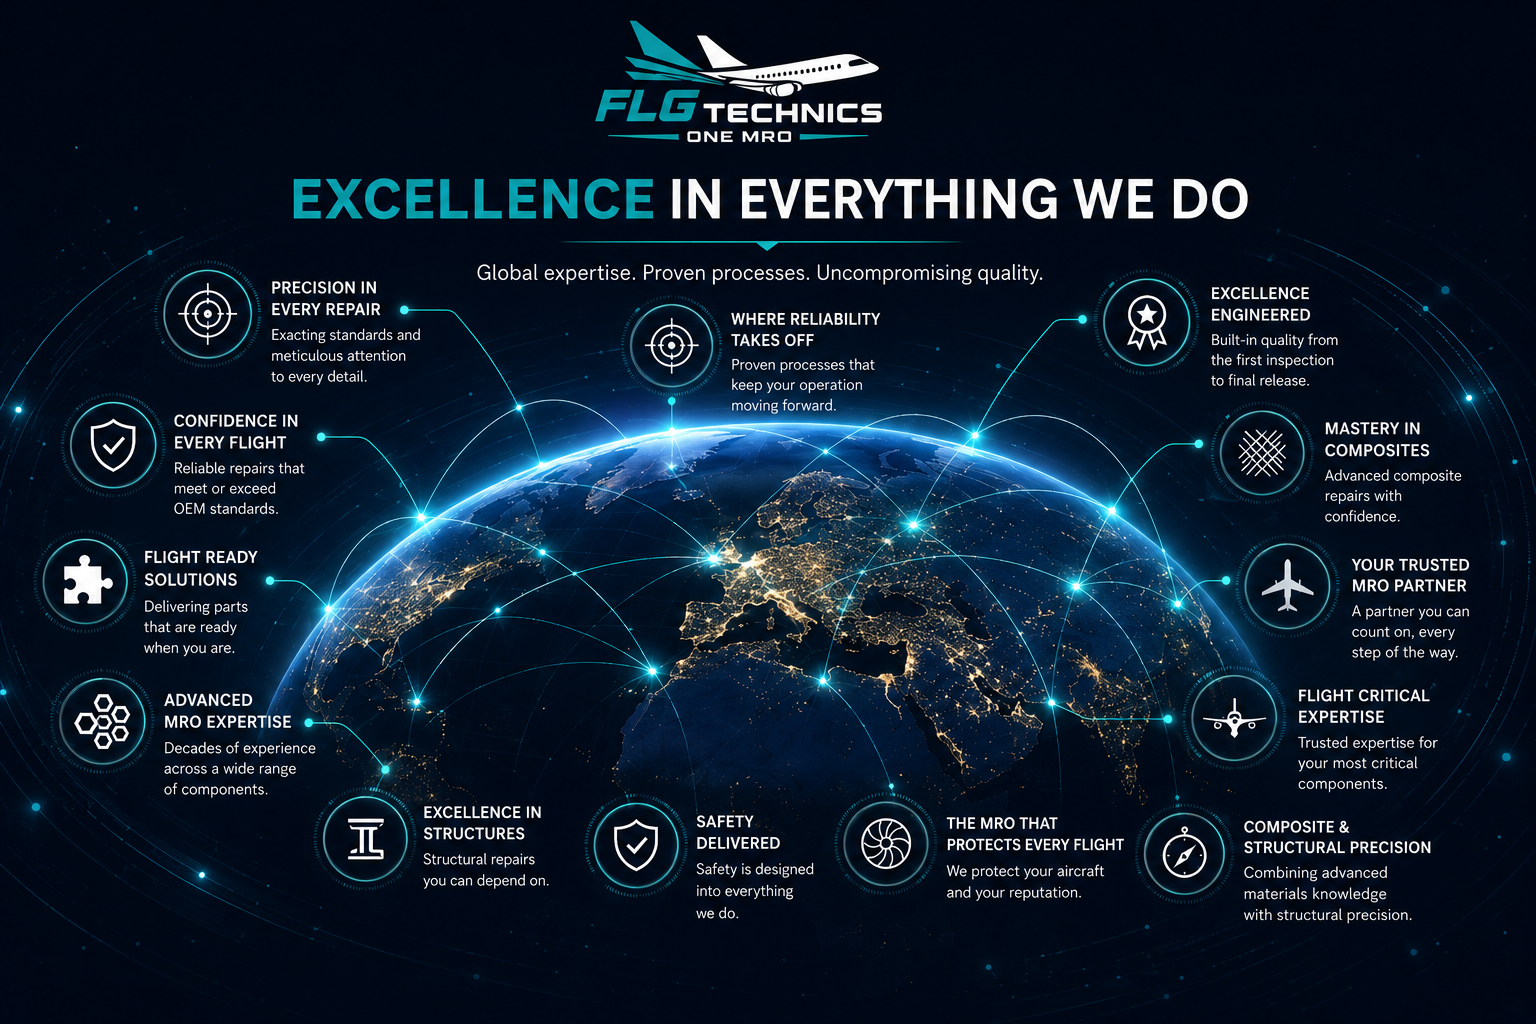
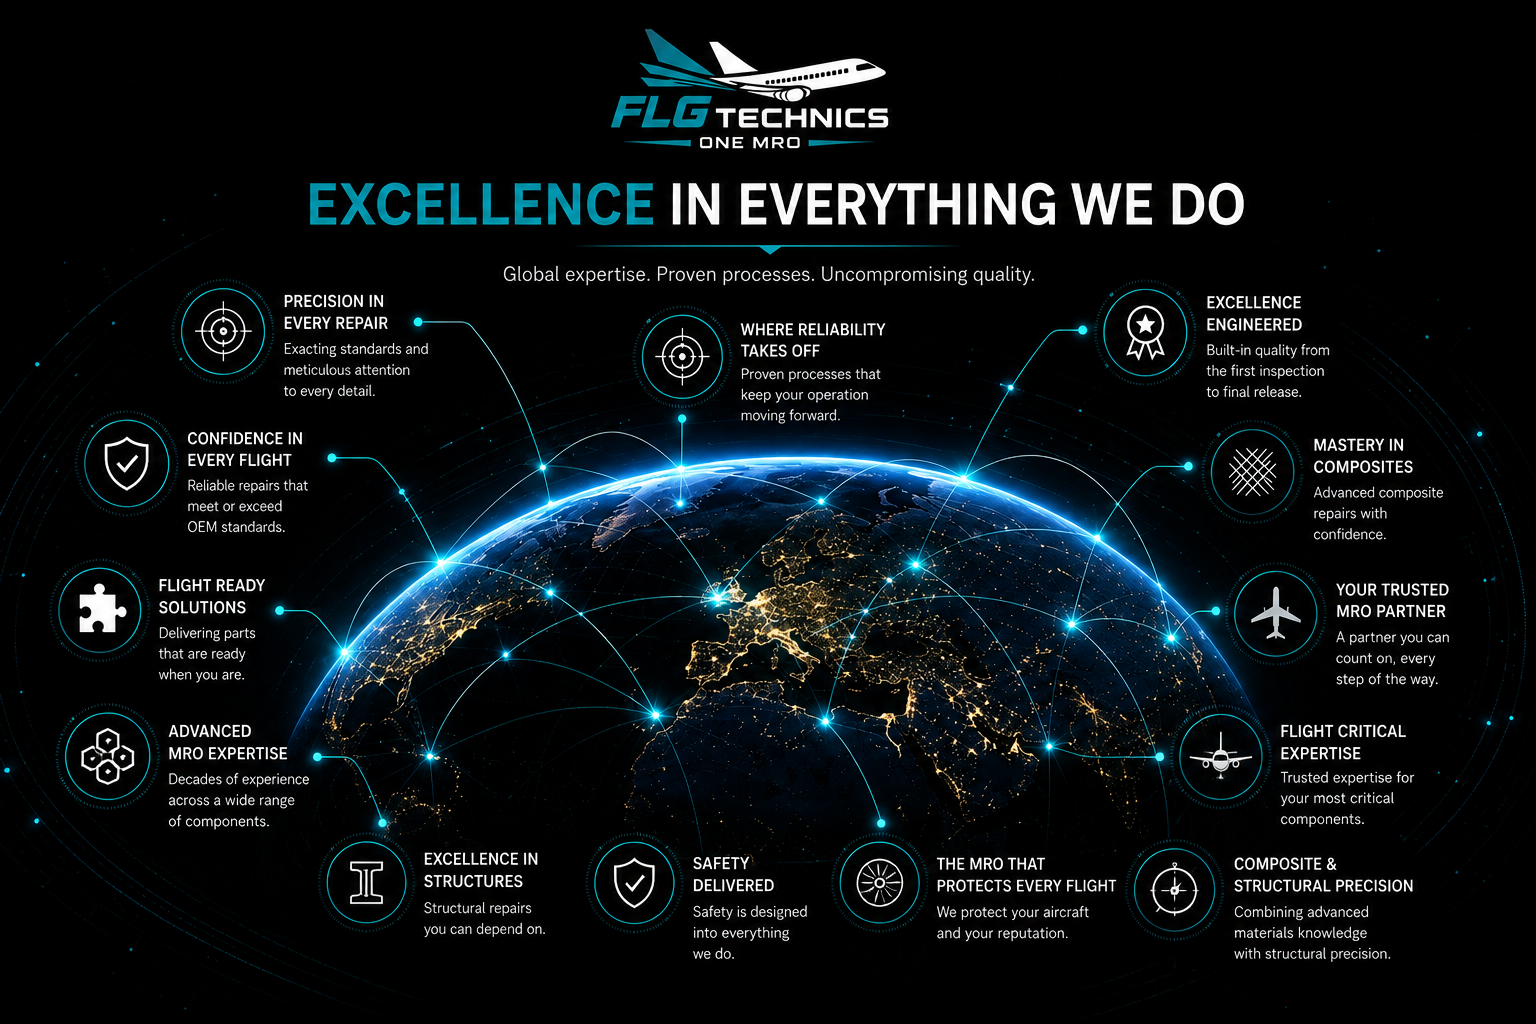
Swap in the new globe artwork and re-derive all overlay geometry
The artwork was re-rendered, so every coordinate the overlays depend on moved.
Re-ran the full extraction against the new file rather than nudging the old
numbers — nothing here is carried over.

Re-measured:

- Limb refitted: centre (769.3, 849.6) r 438.6, down from (763.4, 860.5) r 459.3.
- All 13 icon rings relocated. The first pass found only 7: the fitted circle
  now sits lower, so the bottom-row icons fell inside it and were discarded by
  the "on the globe disc" filter. Dropped that filter, and stepped radii by 1
  instead of 2 so the new thinner rings are not straddled.
- 7 tracer routes refitted. The new art has roughly half the stroke coverage of
  the old at any threshold, so the stroke mask was recalibrated (B>36 G>28
  R<110) to match the coverage that worked before. Limb rejection tightened to
  0.25 after a visual pass showed 0.35 curves riding the bright edge instead of
  a drawn route.
- 11 pulsing nodes: the 7 routes' endpoints plus 2 spread nodes. Candidates
  sitting within ~60px of an icon centre were dropped so no pulse blooms behind
  an icon.
- Particles reseeded against the new empty margins.
- HUD rings pulled in to 480/522 to stay clear of the smaller limb.

Background: the new artwork is pure #000000 on all four edges, where the old
one was #000613. Left unchanged, it would have seamed *worse* than before, not
better — a 9.91/255 step against the page's #05070A versus 8.68 previously. The
[…]

diff --git a/components/ExcellenceGlobe.tsx b/components/ExcellenceGlobe.tsx
@@ -25,8 +25,8 @@ import { motion } from "framer-motion";
 const VB_W = 1536;
 const VB_H = 1024;
 
-/** Earth limb, least-squares fitted to the artwork's bright edge (~4px residual). */
-const GLOBE = { cx: 763.4, cy: 860.5, r: 459.3 };
+/** Earth limb, least-squares fitted to the artwork's bright edge (~5px residual). */
+const GLOBE = { cx: 769.3, cy: 849.6, r: 438.6 };
 
 type Route = { d: string; dur: number; delay: number; hue: "cyan" | "teal" };
 
@@ -36,49 +36,45 @@ type Route = { d: string; dur: number; delay: number; hue: "cyan" | "teal" };
  * real stroke), and rejected if it merely hugged the bright limb.
  */
 const ROUTES: Route[] = [
-  { d: "M608 480 Q751 387 884 494", dur: 7.4, delay: 0.0, hue: "cyan" },
-  { d: "M608 480 Q799 360 890 566", dur: 9.6, delay: 2.7, hue: "teal" },
-  { d: "M928 558 Q865 444 740 408", dur: 6.8, delay: 1.4, hue: "cyan" },
-  { d: "M862 572 Q1054 383 1212 602", dur: 11.2, delay: 4.1, hue: "teal" },
-  { d: "M882 548 Q1005 561 1126 584", dur: 8.1, delay: 6.3, hue: "cyan" },
-  { d: "M978 498 Q1138 454 1212 602", dur: 9.0, delay: 3.2, hue: "teal" },
-  { d: "M1264 696 Q1201 482 978 498", dur: 10.4, delay: 5.5, hue: "cyan" },
-  { d: "M928 558 Q1114 538 1166 718", dur: 7.9, delay: 8.2, hue: "teal" },
-  { d: "M310 722 Q333 446 608 480", dur: 12.0, delay: 1.9, hue: "cyan" },
+  { d: "M360 612 Q490 618 578 522", dur: 7.4, delay: 0.0, hue: "cyan" },
+  { d: "M646 708 Q556 504 360 612", dur: 9.6, delay: 2.7, hue: "teal" },
+  { d: "M448 716 Q531 595 678 598", dur: 6.8, delay: 1.4, hue: "cyan" },
+  { d: "M578 522 Q728 387 902 490", dur: 11.2, delay: 4.1, hue: "teal" },
+  { d: "M970 608 Q805 423 578 522", dur: 8.6, delay: 6.3, hue: "cyan" },
+  { d: "M1146 472 Q1033 606 902 490", dur: 9.4, delay: 3.2, hue: "teal" },
+  { d: "M1154 758 Q1097 559 902 490", dur: 10.8, delay: 5.5, hue: "cyan" },
 ];
 
 /** Connection nodes — the route endpoints, i.e. nodes actually drawn on the globe. */
 const NODES: { x: number; y: number; dur: number; delay: number }[] = [
-  { x: 608, y: 480, dur: 5.2, delay: 0.0 },
-  { x: 884, y: 494, dur: 6.4, delay: 1.3 },
-  { x: 890, y: 566, dur: 5.8, delay: 2.6 },
-  { x: 928, y: 558, dur: 7.1, delay: 0.9 },
-  { x: 740, y: 408, dur: 6.0, delay: 3.4 },
-  { x: 862, y: 572, dur: 5.5, delay: 4.2 },
-  { x: 1212, y: 602, dur: 6.7, delay: 1.8 },
-  { x: 882, y: 548, dur: 5.9, delay: 5.1 },
-  { x: 1126, y: 584, dur: 7.3, delay: 2.2 },
-  { x: 978, y: 498, dur: 6.2, delay: 3.9 },
-  { x: 1264, y: 696, dur: 5.6, delay: 0.5 },
-  { x: 1166, y: 718, dur: 6.9, delay: 4.7 },
-  { x: 310, y: 722, dur: 6.1, delay: 2.9 },
+  { x: 360, y: 612, dur: 5.2, delay: 0.0 },
+  { x: 578, y: 522, dur: 6.4, delay: 1.3 },
+  { x: 646, y: 708, dur: 5.8, delay: 2.6 },
+  { x: 448, y: 716, dur: 7.1, delay: 0.9 },
+  { x: 678, y: 598, dur: 6.0, delay: 3.4 },
+  { x: 902, y: 490, dur: 5.5, delay: 4.2 },
+  { x: 970, y: 608, dur: 6.7, delay: 1.8 },
+  { x: 1146, y: 472, dur: 5.9, delay: 5.1 },
+  { x: 1154, y: 758, dur: 7.3, delay: 2.2 },
+  { x: 870, y: 604, dur: 6.2, delay: 3.9 },
+  { x: 382, y: 820, dur: 5.6, delay: 4.7 },
 ];
 
 /** Icon rings, located by annulus matching — all 13 verified against the art. */
 const ICONS: { x: number; y: number; r: number }[] = [
-  { x: 206, y: 314, r: 44 },
-  { x: 672, y: 346, r: 40 },
-  { x: 1146, y: 322, r: 42 },
-  { x: 112, y: 444, r: 42 },
-  { x: 1262, y: 452, r: 42 },
-  { x: 84, y: 580, r: 42 },
-  { x: 1288, y: 586, r: 42 },
-  { x: 102, y: 720, r: 42 },
-  { x: 1234, y: 718, r: 42 },
-  { x: 364, y: 838, r: 42 },
-  { x: 636, y: 844, r: 42 },
-  { x: 886, y: 844, r: 42 },
-  { x: 1184, y: 854, r: 40 },
+  { x: 222, y: 332, r: 42 },
+  { x: 682, y: 356, r: 41 },
+  { x: 1144, y: 332, r: 43 },
+  { x: 126, y: 462, r: 42 },
+  { x: 1252, y: 472, r: 42 },
+  { x: 100, y: 610, r: 42 },
+  { x: 1276, y: 614, r: 42 },
+  { x: 108, y: 756, r: 43 },
+  { x: 1220, y: 756, r: 42 },
+  { x: 366, y: 882, r: 40 },
+  { x: 634, y: 882, r: 40 },
+  { x: 880, y: 882, r: 40 },
+  { x: 1174, y: 890, r: 40 },
 ];
 
 /** Distant data points, seeded only in the artwork's empty dark margins. */
@@ -92,24 +88,24 @@ const PARTICLES: {
   delay: number;
   o: number;
 }[] = [
-  { x: 58, y: 96, r: 1.6, dx: 10, dy: 7, dur: 17, delay: 0.0, o: 0.3 },
-  { x: 150, y: 62, r: 1.1, dx: -8, dy: 9, dur: 21, delay: 3.0, o: 0.22 },
-  { x: 232, y: 176, r: 1.9, dx: 7, dy: -9, dur: 19, delay: 6.0, o: 0.26 },
-  { x: 96, y: 210, r: 1.3, dx: 9, dy: 6, dur: 23, delay: 1.5, o: 0.2 },
-  { x: 1318, y: 78, r: 1.5, dx: -9, dy: 8, dur: 18, delay: 2.0, o: 0.28 },
-  { x: 1436, y: 140, r: 1.2, dx: 8, dy: -7, dur: 22, delay: 5.0, o: 0.22 },
-  { x: 1372, y: 214, r: 1.8, dx: -7, dy: -8, dur: 20, delay: 8.0, o: 0.24 },
-  { x: 1492, y: 56, r: 1.1, dx: -6, dy: 9, dur: 24, delay: 3.5, o: 0.18 },
-  { x: 24, y: 372, r: 1.4, dx: 8, dy: 10, dur: 21, delay: 1.0, o: 0.24 },
-  { x: 16, y: 560, r: 1.1, dx: 9, dy: -8, dur: 25, delay: 4.5, o: 0.18 },
-  { x: 30, y: 742, r: 1.6, dx: 7, dy: 9, dur: 19, delay: 7.0, o: 0.22 },
-  { x: 1508, y: 400, r: 1.3, dx: -8, dy: 9, dur: 22, delay: 2.5, o: 0.22 },
-  { x: 1520, y: 604, r: 1.5, dx: -7, dy: -9, dur: 20, delay: 6.0, o: 0.2 },
-  { x: 1500, y: 786, r: 1.2, dx: -9, dy: 7, dur: 24, delay: 0.5, o: 0.18 },
-  { x: 210, y: 978, r: 1.4, dx: 11, dy: -7, dur: 23, delay: 3.0, o: 0.2 },
+  { x: 58, y: 76, r: 1.6, dx: 10, dy: 7, dur: 17, delay: 0.0, o: 0.3 },
+  { x: 160, y: 52, r: 1.1, dx: -8, dy: 9, dur: 21, delay: 3.0, o: 0.22 },
+  { x: 242, y: 116, r: 1.9, dx: 7, dy: -9, dur: 19, delay: 6.0, o: 0.26 },
+  { x: 96, y: 140, r: 1.3, dx: 9, dy: 6, dur: 23, delay: 1.5, o: 0.2 },
+  { x: 1330, y: 68, r: 1.5, dx: -9, dy: 8, dur: 18, delay: 2.0, o: 0.28 },
+  { x: 1446, y: 120, r: 1.2, dx: 8, dy: -7, dur: 22, delay: 5.0, o: 0.22 },
+  { x: 1382, y: 44, r: 1.8, dx: -7, dy: -8, dur: 20, delay: 8.0, o: 0.24 },
+  { x: 1492, y: 150, r: 1.1, dx: -6, dy: 9, dur: 24, delay: 3.5, o: 0.18 },
+  { x: 26, y: 372, r: 1.4, dx: 8, dy: 10, dur: 21, delay: 1.0, o: 0.24 },
+  { x: 18, y: 560, r: 1.1, dx: 9, dy: -8, dur: 25, delay: 4.5, o: 0.18 },
+  { x: 32, y: 742, r: 1.6, dx: 7, dy: 9, dur: 19, delay: 7.0, o: 0.22 },
+  { x: 1500, y: 400, r: 1.3, dx: -8, dy: 9, dur: 22, delay: 2.5, o: 0.22 },
+  { x: 1512, y: 604, r: 1.5, dx: -7, dy: -9, dur: 20, delay: 6.0, o: 0.2 },
+  { x: 1494, y: 786, r: 1.2, dx: -9, dy: 7, dur: 24, delay: 0.5, o: 0.18 },
+  { x: 210, y: 980, r: 1.4, dx: 11, dy: -7, dur: 23, delay: 3.0, o: 0.2 },
   { x: 560, y: 996, r: 1.1, dx: -9, dy: -8, dur: 26, delay: 6.5, o: 0.16 },
-  { x: 940, y: 966, r: 1.7, dx: 8, dy: 9, dur: 21, delay: 1.2, o: 0.22 },
-  { x: 1290, y: 988, r: 1.3, dx: -10, dy: -6, dur: 24, delay: 4.0, o: 0.18 },
+  { x: 940, y: 974, r: 1.7, dx: 8, dy: 9, dur: 21, delay: 1.2, o: 0.22 },
+  { x: 1290, y: 990, r: 1.3, dx: -10, dy: -6, dur: 24, delay: 4.0, o: 0.18 },
 ];
 
 /** Upper limb arc, swept across the top of the fitted Earth circle. */
@@ -390,7 +386,7 @@ export default function ExcellenceGlobe() {
                 <circle
                   cx={GLOBE.cx}
                   cy={GLOBE.cy}
-                  r={500}
+                  r={480}
                   className="eg-anim eg-ring"
                   fill="none"
                   stroke="#7DD3FC"
@@ -403,7 +399,7 @@ export default function ExcellenceGlobe() {
                 <circle
                   cx={GLOBE.cx}
                   cy={GLOBE.cy}
-                  r={545}
+                  r={522}
                   className="eg-anim eg-ring-rev"
                   fill="none"
                   stroke="#5ED4C3"

diff --git a/app/globals.css b/app/globals.css
@@ -146,37 +146,33 @@ body {
    prefers-reduced-motion.
    =========================================================================== */
 
-/* The artwork is not black — its own edge tone is #000613 (no red at all, and
-   noticeably bluer than the page's #05070A). That delta is what made the image
-   read as a lighter rectangle pasted onto the page. Matching the band behind it
-   to the artwork's edge colour removes the seam outright, and the fade back to
-   the page colour happens inside the section's vertical padding, where there is
-   no content to damage. Measured margins to visible content are only ~2%, so
-   feathering the image itself was not an option. */
+/* The artwork's own edge tone is pure black (#000000 on all four sides), while
+   the page is #05070A. Without this the image reads as a darker rectangle cut
+   into the page. Paint a matching black band behind it and fade back to the
+   page colour inside the section's vertical padding, where there is no content
+   to damage. Re-measured for the current artwork. */
 .eg-section {
   background: linear-gradient(
     180deg,
     #05070a 0%,
-    #000613 6%,
-    #000613 94%,
+    #000000 6%,
+    #000000 94%,
     #05070a 100%
   );
 }
 
-/* A flat colour cannot match all four sides: the artwork's left edge is
-   measurably brighter (0.4,10.7,26.2) than the top/right/bottom (~0,7,21). So
-   fade the outer sliver of the image and let the matched band above show
-   through — that dissolves the boundary whatever the local edge tone is.
-   1.5% is deliberate: the nearest visible content sits at 2.02% (right edge),
-   so this only ever touches empty background, never the logo, icons or text. */
+/* Soften the boundary between the artwork and the page. 2.5% is 38px across
+   and 26px down, measured against this artwork's margins to visible content of
+   65px (left) and 42px (top) — so it only ever touches empty background, never
+   the logo, icons or text. */
 .eg-stage {
   -webkit-mask-image:
-    linear-gradient(to bottom, transparent 0%, #000 1.5%, #000 98.5%, transparent 100%),
-    linear-gradient(to right, transparent 0%, #000 1.5%, #000 98.5%, transparent 100%);
+    linear-gradient(to bottom, transparent 0%, #000 2.5%, #000 97.5%, transparent 100%),
+    linear-gradient(to right, transparent 0%, #000 2.5%, #000 97.5%, transparent 100%);
   -webkit-mask-composite: source-in;
   mask-image:
-    linear-gradient(to bottom, transparent 0%, #000 1.5%, #000 98.5%, transparent 100%),
-    linear-gradient(to right, transparent 0%, #000 1.5%, #000 98.5%, transparent 100%);
+    linear-gradient(to bottom, transparent 0%, #000 2.5%, #000 97.5%, transparent 100%),
+    linear-gradient(to right, transparent 0%, #000 2.5%, #000 97.5%, transparent 100%);
   mask-composite: intersect;
 }
 
